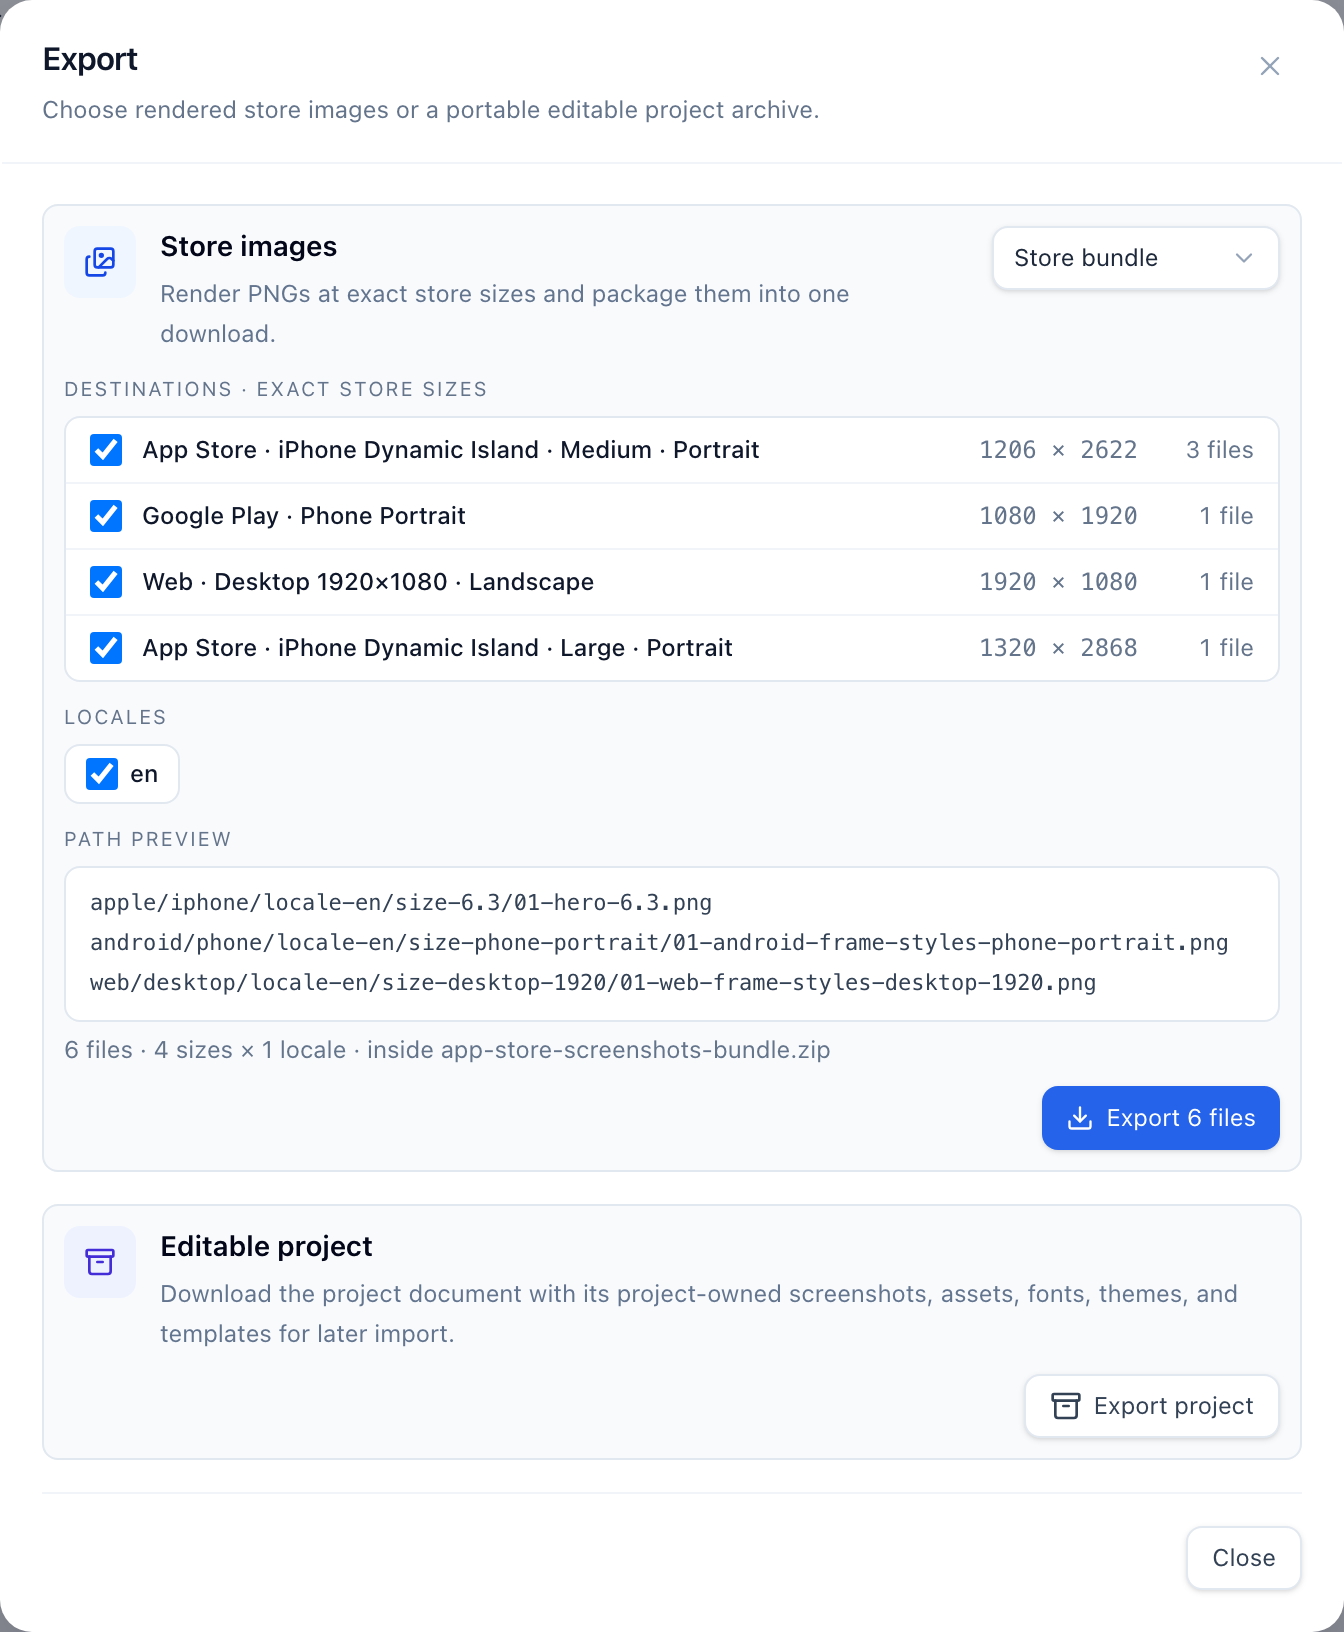
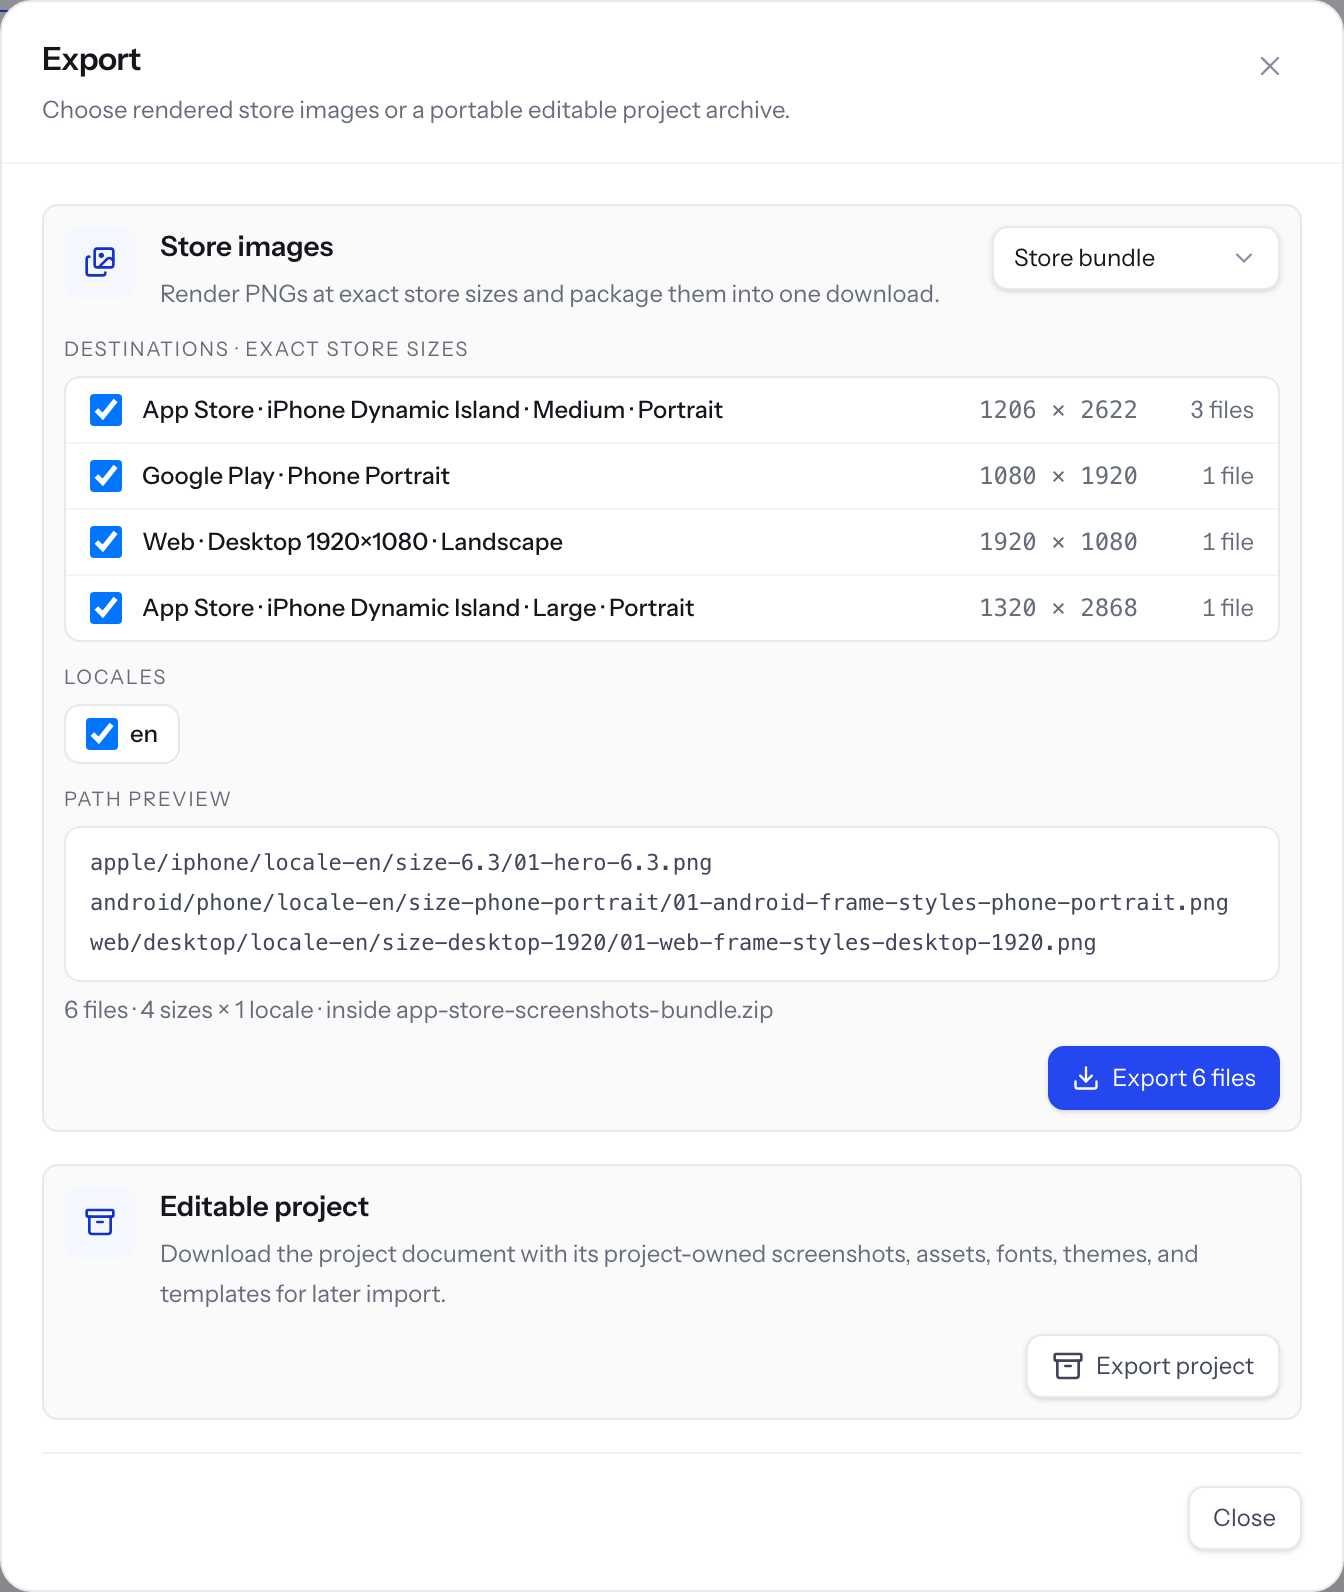
docs: refresh README screenshots after the editor redesign

diff --git a/README.md b/README.md
@@ -79,7 +79,8 @@ Select a device frame to adjust its transform, screenshot content, and frame pre
 
 ![Screenshot Studio device frame inspector](docs/images/readme/device-frame-inspector.png)
 
-Select a screen to manage destinations, synchronized structure, exact output sizes, and background.
+Add exact store sizes from the sizes bar, then select a screen to manage its synchronized structure
+and background.
 
 ![Screenshot Studio screen and output variants](docs/images/readme/screen-variants.png)
 
